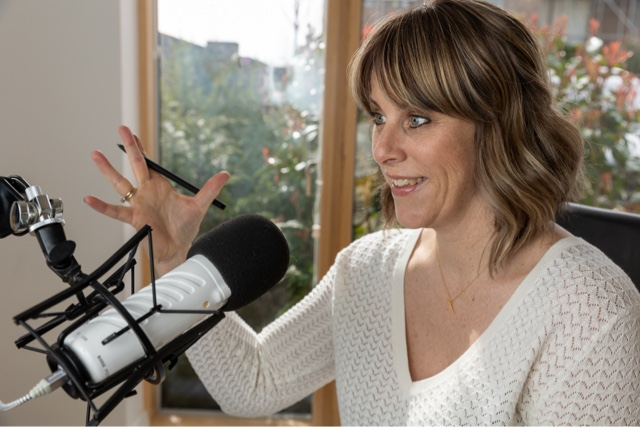
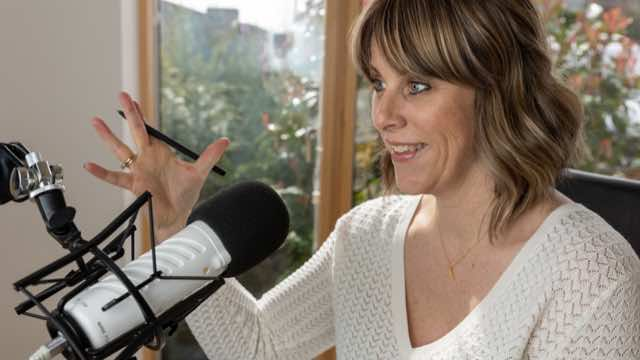
Revert "Replaces the episode artwork with a photo of Rachel in lists"
This reverts commit 0be7ecd8d22dd1c9f5608e4e5b981412058187a2.

# Conflicts:
#	theme/img/no-guest-list.jpg
#	theme/includes/entry-episode.php

diff --git a/theme/includes/entry-episode.php b/theme/includes/entry-episode.php
@@ -1,7 +1,7 @@
 <a href="<?php the_permalink(); ?>" class="episode entry">
-    <?php if (yanaf_episode_has_guests()) {
+    <?php if ($thumbnail_id = get_post_thumbnail_id(get_the_ID())) {
         yanaf_img_srcset(
-            get_post_thumbnail_id(get_the_ID()),
+            $thumbnail_id,
             get_the_title(),
             array(
                 'small' => 'f-sm-whole-16x9' /* Full-width on small devices */,
